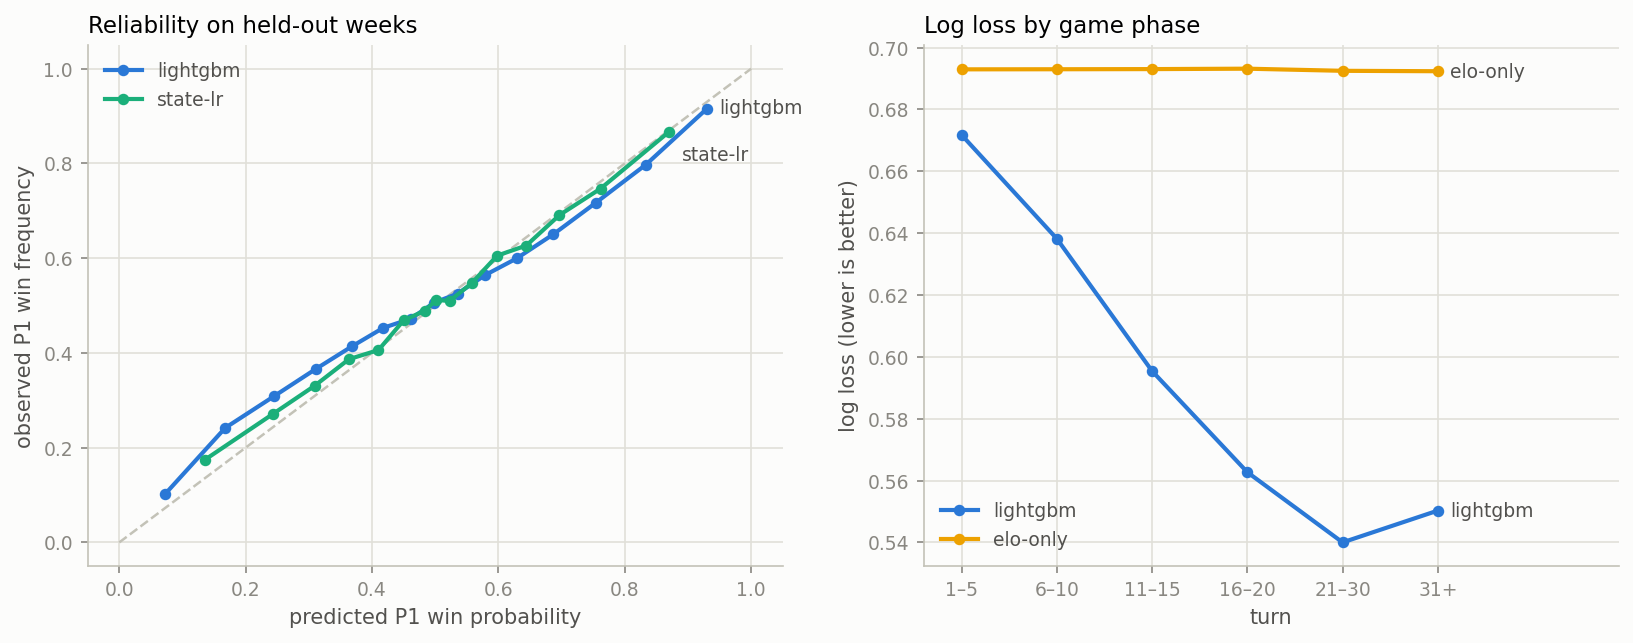
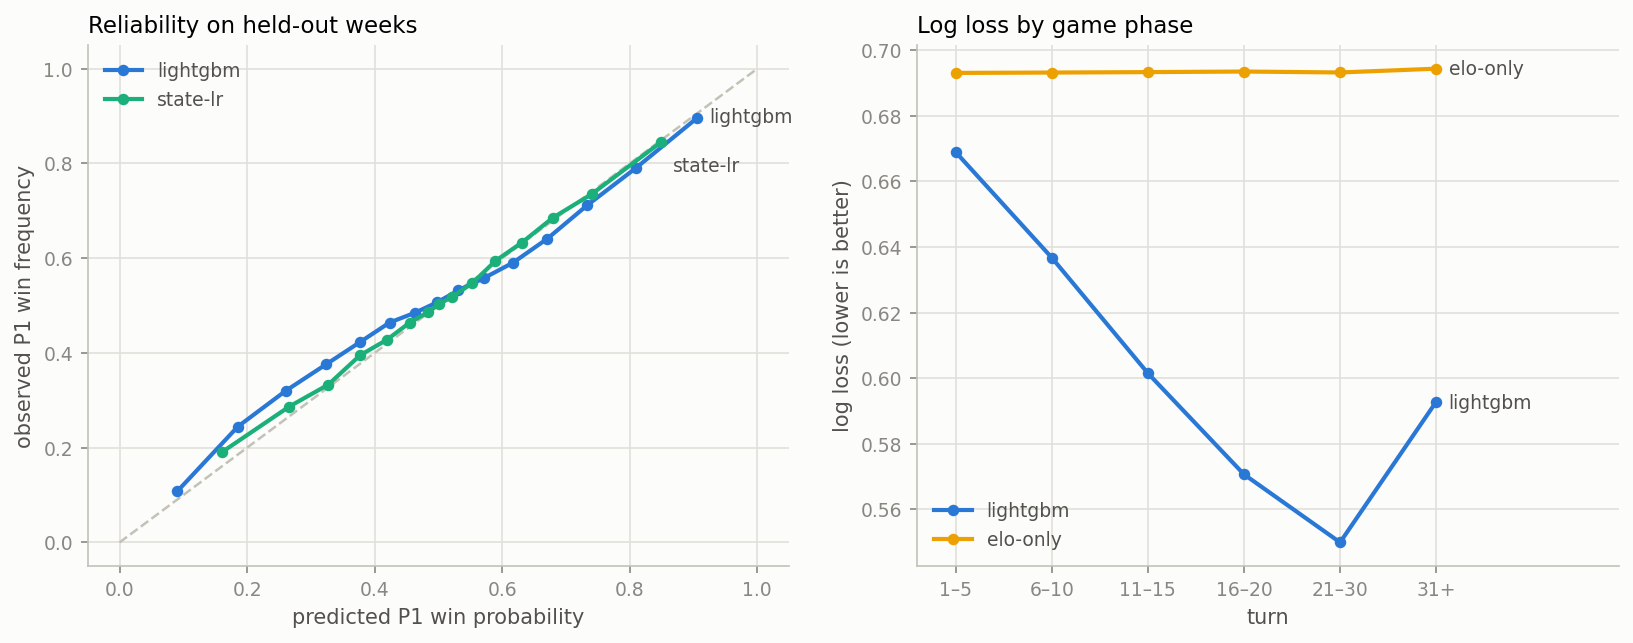
Dataset v2: retrain on 18.7k games rated 1300+
- 27.8k games on disk (8.3k newly scraped at the 1300 floor)
- win-prob on the new all-1300+ benchmark: log loss 0.6075, AUC 0.725;
  Elo-only baseline now scores below a coin flip (AUC 0.497)
- teammate model improves markedly on cleaner rosters: 41.1% top-1
  with 3 revealed (was 35.4%), recall@10 57.7%
- fix: exclude parser events dict from the games parquet

diff --git a/app.py b/app.py
@@ -173,14 +173,14 @@ def render_team_predictor() -> None:
             format="percent", min_value=0, max_value=float(top.relative_likelihood.max()))},
         hide_index=True, width="stretch")
     st.caption("Held-out evaluation: given 3 known members, the top-ranked guess is one "
-               "of the 3 hidden teammates 35% of the time (usage-only baseline: 19%), "
-               "and half the hidden team appears in the top 10.")
+               "of the 3 hidden teammates 41% of the time (usage-only baseline: 18%), "
+               "and 58% of the hidden team appears in the top 10.")
 
 
 st.title("Pokémon Showdown — Win Probability")
 st.caption(
     "Turn-by-turn win probability for ranked Gen 9 OU battles. LightGBM trained on "
-    "~15k rated ladder games; evaluated on strictly newer games (log loss 0.601, AUC 0.73).")
+    "~14k games rated 1300+; evaluated on strictly newer games (log loss 0.608, AUC 0.72).")
 
 tab_replay, tab_team = st.tabs(["📈 Replay analyzer", "🔮 Team predictor"])
 with tab_replay:

diff --git a/src/build_dataset.py b/src/build_dataset.py
@@ -38,6 +38,7 @@ def build() -> None:
             continue  # ties, forfeits before turn 1, or unfinished logs
         snapshots = game.pop("snapshots")
         teams = game.pop("teams")
+        game.pop("events")  # display-time info; not part of the training tables
         game["uploadtime"] = replay.get("uploadtime")
         game_rows.append(game)
         for side, roster in teams.items():

diff --git a/README.md b/README.md
@@ -42,15 +42,16 @@ global weather, terrain, Trick Room, turn number, and player Elo ratings.
 
 ## Results
 
-19,208 rated games (June–July 2026, Elo 1100–1949) → 462k turn snapshots. Trained on the
-three older weekly windows, evaluated on 4,606 strictly-newer games (110k turns):
+27,840 rated games collected (June–July 2026) → 686k turn snapshots. Models train on
+**dataset v2**: the 18,744 games rated 1300+ (14.3k train, 4.4k strictly-newer test);
+lower-rated games stay on disk for cross-skill analysis.
 
 | Model | Log loss ↓ | Brier ↓ | AUC ↑ |
 |---|---|---|---|
 | Always 50% | 0.6931 | 0.2500 | 0.500 |
-| Elo difference only | 0.6929 | 0.2499 | 0.508 |
-| Battle-state logistic (6 features) | 0.6252 | 0.2184 | 0.701 |
-| **LightGBM (full snapshot)** | **0.6011** | **0.2085** | **0.734** |
+| Elo difference only | 0.6934 | 0.2501 | 0.497 |
+| Battle-state logistic (6 features) | 0.6330 | 0.2215 | 0.691 |
+| **LightGBM (full snapshot)** | **0.6075** | **0.2112** | **0.725** |
 
 The LightGBM model is trained with **p1/p2 mirror augmentation** (every position is also
 seen from the other seat with the label flipped — doubles the sample and enforces
@@ -60,11 +61,11 @@ symmetry; worth −0.010 log loss on its own) plus turn-momentum and team-health
 
 Three findings worth calling out:
 
-1. **Pre-game Elo is nearly worthless** (log loss 0.6929 vs 0.6931 for a coin flip) —
-   ladder matchmaking pairs similar-rated players, so almost all predictive signal must
-   come from the battle state itself.
+1. **Pre-game Elo is worthless at higher ladder** — on the 1300+ benchmark the Elo-only
+   baseline scores *below* a coin flip (AUC 0.497). Matchmaking equalizes skill so
+   thoroughly that all predictive signal must come from the battle state itself.
 2. **The model reads matchups, not just scoreboards**: the two active-species features
-   carry 47% of total split gain, ahead of the HP differential (27%) — the model has
+   carry 44% of total split gain, alongside the HP differential (27%) — the model has
    effectively learned type/threat matchup knowledge from co-occurrence with outcomes.
 3. **Uncertainty behaves like it should**: log loss falls from 0.68 in turns 1–5 toward
    0.55 late-game, and the reliability curves track the diagonal — a predicted 70% wins
@@ -80,15 +81,15 @@ Three findings worth calling out:
 
 The second model answers the hidden-information question: **given k known members of a
 team, which species are the other 6−k?** A smoothed co-occurrence naive Bayes, fit on
-29,188 training rosters and evaluated on 9,207 strictly-newer test teams (~540 candidate
+28,607 training rosters and evaluated on 8,874 strictly-newer test teams (~500 candidate
 species per guess):
 
 | Members revealed | Top-1 hit rate | Recall@10 | Usage-baseline top-1 |
 |---|---|---|---|
-| 1 | 32.8% | 35.3% | 26.7% |
-| 2 | 34.7% | 43.6% | 23.2% |
-| 3 | 35.4% | 49.6% | 18.5% |
-| 4 | 33.0% | 53.9% | 13.4% |
+| 1 | 36.3% | 40.7% | 26.6% |
+| 2 | 40.0% | 51.2% | 22.6% |
+| 3 | 41.1% | 57.7% | 17.9% |
+| 4 | 38.6% | 63.0% | 12.9% |
 
 Note the crossing dynamics: the usage-only baseline *degrades* as more is revealed
 (the popular picks get used up), while the model *improves* — evidence it reads team
@@ -120,8 +121,8 @@ likely hidden teammates, ranked with relative likelihoods.
       via co-occurrence naive Bayes over training rosters; Team Predictor tab in the app
 - [x] **Phase 6 — turn stories**: per-turn action tracking (moves, switches, faints, Tera)
       with luck events (crits, misses) separated, swing-severity grading in key moments
-- [ ] **Phase 7 — dataset v2**: 25–30k games at a 1300+ rating floor (train filter
-      `train_min_rating` keeps older low-Elo games on disk for skill-band analysis)
+- [x] **Phase 7 — dataset v2**: 27.8k games collected, 18.7k at the 1300+ training floor
+      (train filter `train_min_rating` keeps low-Elo games on disk for skill-band analysis)
 - [ ] **Phase 8 — live spectator mode**: attach to an ongoing public battle over
       Showdown's WebSocket and stream the win-prob chart in real time — the live protocol
       is identical to replay logs, and the parser is already incremental (`feed()` per line)